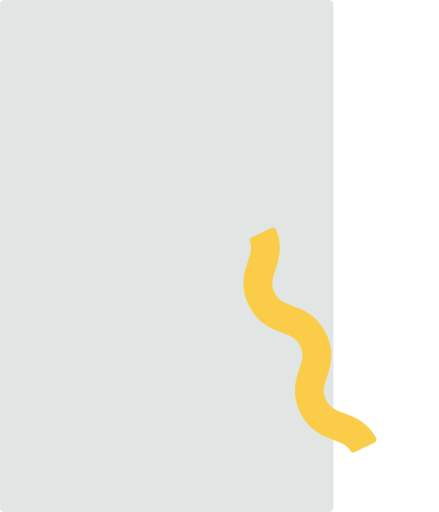
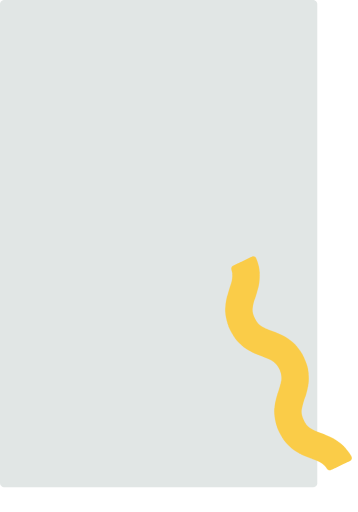
design landing page textbox

Changed region(s): [[0.0, 0.0, 0.9832, 1.0]]

diff --git a/app/assets/stylesheets/pages/_home.scss b/app/assets/stylesheets/pages/_home.scss
@@ -85,23 +85,20 @@
   background-image: url(https://res.cloudinary.com/dpdwv3yz1/image/upload/v1599723247/Group_68_q6u7mg.png);
   background-repeat: no-repeat;
   padding: 40px;
-  width: 100%;
   height: 500px;
 }
 
 .text-box-triangle {
   background-image: url(https://res.cloudinary.com/dpdwv3yz1/image/upload/v1599723641/Group_69_1_oifsr5.png);
   background-repeat: no-repeat;
-  padding: 40px 40px 40px 140px;
-  width: 100%;
+  padding: 40px;
   height: 500px;
 }
 
 .text-box-circle {
   background-image: url(https://res.cloudinary.com/dpdwv3yz1/image/upload/v1599723639/Group_70_hekhca.png);
   background-repeat: no-repeat;
-  padding: 40px 40px 40px 140px;
-  width: 100%;
+  padding: 40px;
   height: 500px;
 }
 

diff --git a/db/schema.rb b/db/schema.rb
@@ -10,7 +10,7 @@
 #
 # It's strongly recommended that you check this file into your version control system.
 
-ActiveRecord::Schema.define(version: 2020_09_10_114410) do
+ActiveRecord::Schema.define(version: 2020_09_07_195526) do
 
   # These are extensions that must be enabled in order to support this database
   enable_extension "plpgsql"
@@ -121,9 +121,6 @@ ActiveRecord::Schema.define(version: 2020_09_10_114410) do
     t.integer "invitation_limit"
     t.integer "invited_by_id"
     t.string "invited_by_type"
-    t.string "confirmation_token"
-    t.datetime "confirmed_at"
-    t.datetime "confirmation_sent_at"
     t.index ["email"], name: "index_users_on_email", unique: true
     t.index ["invitation_token"], name: "index_users_on_invitation_token", unique: true
     t.index ["reset_password_token"], name: "index_users_on_reset_password_token", unique: true
